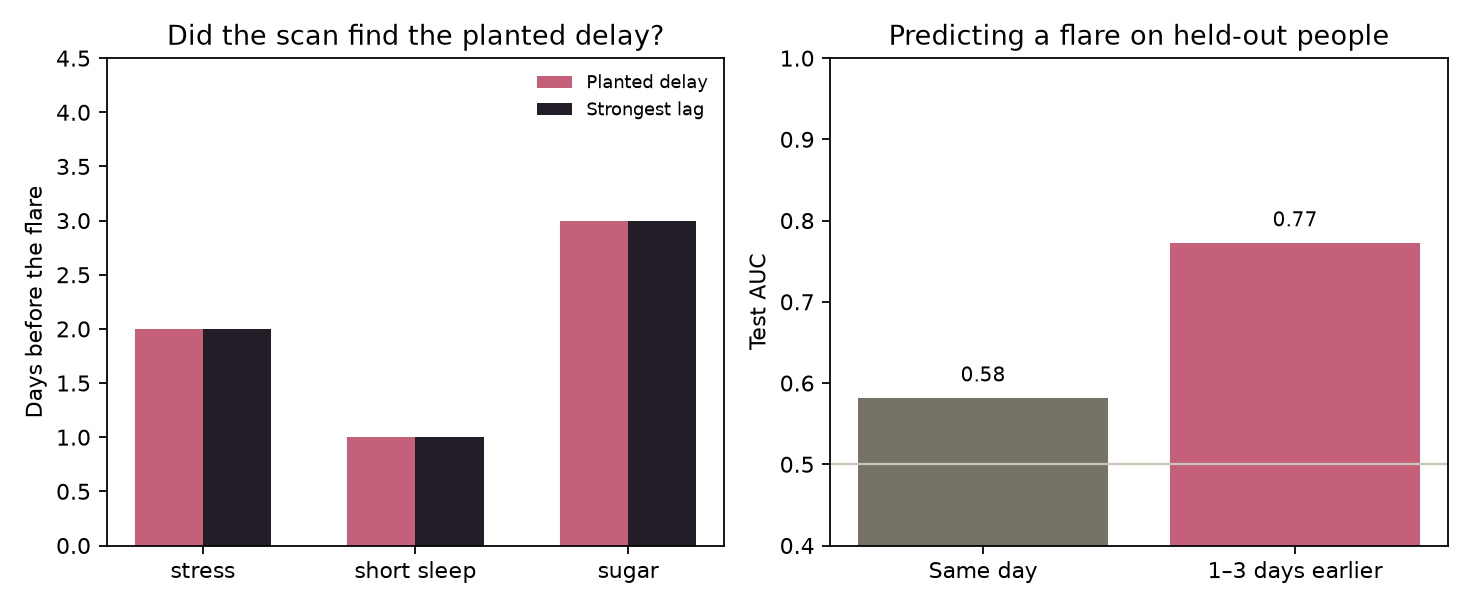
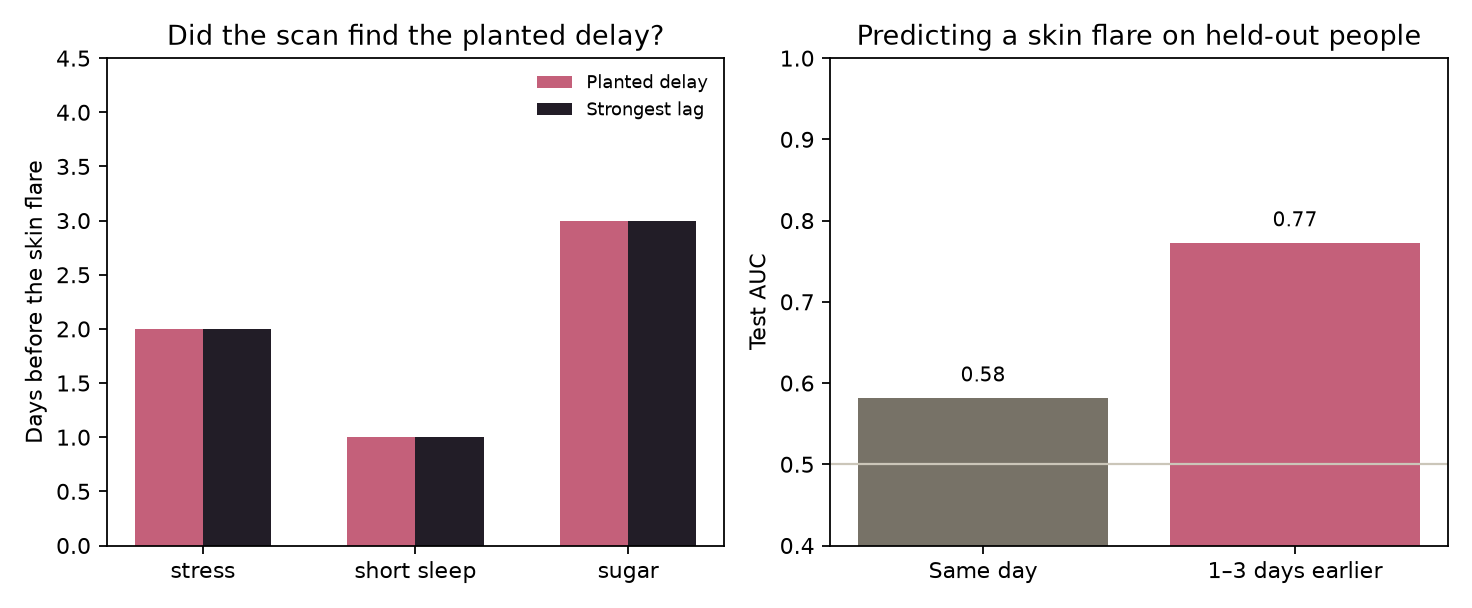
Say that a flare here means a skin flare.
The study is about psoriasis, eczema, and acne, not flares in general.

Changed region(s): [[0.5625, 0.0312, 0.9688, 0.0938], [0.0, 0.2812, 0.0312, 0.7188]]

diff --git a/flare_lag/__main__.py b/flare_lag/__main__.py
@@ -34,7 +34,7 @@ def _figure(found: dict, models: dict, path: Path) -> None:
     axes[0].bar(x - 0.16, planted, width=0.32, color="#C4607A", label="Planted delay")
     axes[0].bar(x + 0.16, chosen, width=0.32, color="#221D27", label="Strongest lag")
     axes[0].set_xticks(x, labels)
-    axes[0].set_ylabel("Days before the flare")
+    axes[0].set_ylabel("Days before the skin flare")
     axes[0].set_ylim(0, 4.5)
     axes[0].set_title("Did the scan find the planted delay?")
     axes[0].legend(frameon=False, fontsize=8)
@@ -45,7 +45,7 @@ def _figure(found: dict, models: dict, path: Path) -> None:
     axes[1].axhline(0.5, color="#CBC6B9", lw=1)
     axes[1].set_ylim(0.4, 1.0)
     axes[1].set_ylabel("Test AUC")
-    axes[1].set_title("Predicting a flare on held-out people")
+    axes[1].set_title("Predicting a skin flare on held-out people")
     for i, value in enumerate(aucs):
         axes[1].text(i, value + 0.02, f"{value:.2f}", ha="center", fontsize=9)
 
@@ -75,7 +75,8 @@ def main() -> None:
         "top_coefficients": ranks,
         "top5_planted_cause_count": top5_causes,
         "note": (
-            "Diaries are simulated. Cream is applied because a flare is already happening. "
+            "Diaries are simulated. A flare here is a skin flare, as in psoriasis, eczema, or acne. "
+            "Cream is applied because a skin flare is already happening. "
             "This does not diagnose anyone and does not use real health records."
         ),
     }

diff --git a/flare_lag/simulate.py b/flare_lag/simulate.py
@@ -1,8 +1,9 @@
-"""Synthetic daily diaries with a known delay between a habit and a flare.
+"""Synthetic daily diaries with a known delay between a habit and a skin flare.
 
-The diaries are not patient records. Each person has three planted triggers
-and three decoys. Cream is applied because a flare is already happening, so
-it lines up with the same day and is not a cause.
+A flare here is a skin flare, as in psoriasis, eczema, or acne. The diaries
+are not patient records. Each person has three planted triggers and three
+decoys. Cream is applied because a skin flare is already happening, so it
+lines up with the same day and is not a cause.
 """
 
 from __future__ import annotations

diff --git a/README.md b/README.md
@@ -1,6 +1,6 @@
 # Flare lag
 
-Same-day notes blame the wrong thing. A flare often shows up one to three days after stress, short sleep, or sugar. This project checks whether a model can find that delay when the answer is known.
+Same-day notes blame the wrong thing. Here a flare means a skin flare, the kind in psoriasis, eczema, or acne. It often shows up one to three days after stress, short sleep, or sugar. This project checks whether a model can find that delay when the answer is known.
 
 The diaries are simulated. Nothing here is a medical record, and nothing here diagnoses anyone.
 
@@ -8,19 +8,19 @@ The diaries are simulated. Nothing here is a medical record, and nothing here di
 
 400 people, 120 days each. Three causes, with a fixed delay:
 
-| Signal | Delay before the flare |
+| Signal | Delay before the skin flare |
 | --- | --- |
 | Stress | 2 days |
 | Short sleep | 1 day |
 | Sugar | 3 days |
 
-Steps and screen time do nothing. Cream is applied because a flare is already happening, so it lines up with the same day. About 8% of the habit values are missing. A flare also makes the next day more likely to flare, the way a plaque does not clear overnight.
+Steps and screen time do nothing. Cream is applied because a skin flare is already happening, so it lines up with the same day. About 8% of the habit values are missing. A skin flare also makes the next day more likely to flare, the way a plaque does not clear overnight.
 
 ## What the run found
 
 From `python -m flare_lag` with seed 7. Numbers are in `results/summary.json`.
 
-A same-day correlation blames the cream (r = 0.70). The cream did not cause the flare.
+A same-day correlation blames the cream (r = 0.70). The cream did not cause the skin flare.
 
 Looking back up to 4 days, the strongest lag matches the planted delay for all three causes:
 
@@ -30,18 +30,18 @@ Looking back up to 4 days, the strongest lag matches the planted delay for all t
 | Short sleep | 1 day | 1 day | 0.06 |
 | Sugar | 3 days | 3 days | 0.21 |
 
-Short sleep is the weak one. The day is right, and the correlation is small, because flares carry into the next day and sleep does not swing as hard as stress.
+Short sleep is the weak one. The day is right, and the correlation is small, because a skin flare carries into the next day and sleep does not swing as hard as stress.
 
-Predicting a flare for people the model has not seen:
+Predicting a skin flare for people the model has not seen:
 
 | Features | Test AUC | Average precision |
 | --- | --- | --- |
 | Same day only | 0.58 | 0.52 |
 | 1 to 3 days earlier | 0.77 | 0.74 |
 
-About 45% of days are flare days, so 0.50 would be a coin flip. The lagged logistic regression puts the largest weights on stress two days earlier and sugar three days earlier.
+About 45% of days are skin-flare days, so 0.50 would be a coin flip. The lagged logistic regression puts the largest weights on stress two days earlier and sugar three days earlier.
 
-![Planted delays next to the lag the scan chose, and test AUC for same-day versus lagged features](results/lag_vs_sameday.png)
+![Planted delays next to the lag the scan chose, and test AUC for predicting a skin flare](results/lag_vs_sameday.png)
 
 ## Run it
 
